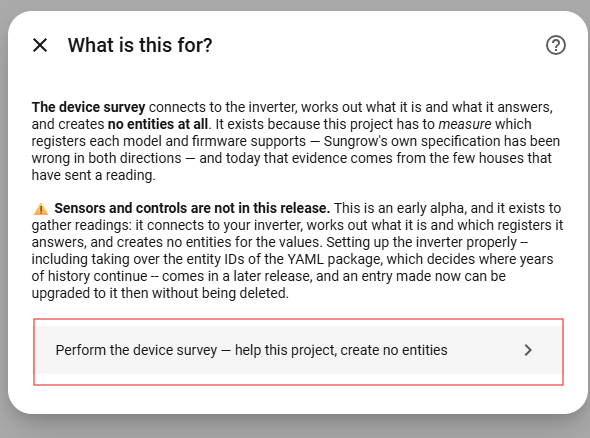
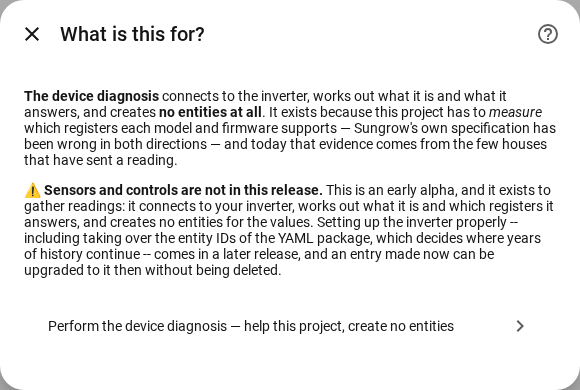
Screenshots: the diagnosis's new names, retaken against the simulator
The device page's two buttons, the options section and the setup menu,
from a scratch instance on :8125. screenshot.py gains the device-diagnosis
and setup-menu shots, and waits for the login to store its session
before navigating, which a navigation straight after it raced.

diff --git a/scripts/dev/screenshot.py b/scripts/dev/screenshot.py
@@ -41,12 +41,23 @@ def log_in(page: Page, url: str, username: str, password: str) -> None:
     page.wait_for_url(lambda now: "/auth/" not in now, timeout=30_000)
 
 
+def settle(page: Page) -> None:
+    """Let the login finish storing its session before navigating away.
+
+    The session is stored once the first page after the login has loaded; a
+    navigation before that lands back on the login form.
+    """
+    page.wait_for_load_state("networkidle")
+    page.wait_for_timeout(2_000)
+
+
 def open_options(page: Page, url: str) -> None:
     """Open the Sungrow entry's options dialog from its integration page.
 
     The entry's cog is an `ha-icon-button` with no label of its own; the
     `button` inside it carries "Configure", which is what the role finds.
     """
+    settle(page)
     page.goto(f"{url}/config/integrations/integration/sungrow_modbus")
     page.wait_for_load_state("networkidle")
     page.locator("ha-config-entry-row").get_by_role("button", name="Configure").click()
@@ -69,7 +80,69 @@ def options_capability_test(page: Page, url: str) -> Path:
     return target
 
 
+def device_diagnosis(page: Page, url: str) -> Path:
+    """Shoot the device page's card with the two diagnosis buttons."""
+    settle(page)
+    page.goto(f"{url}/config/devices/dashboard")
+    page.wait_for_load_state("networkidle")
+    page.get_by_text("SH10RT", exact=True).first.click()
+    page.wait_for_url(lambda now: "/config/devices/device/" in now, timeout=30_000)
+    page.wait_for_load_state("networkidle")
+    card = page.locator("ha-card").filter(has_text="Run read-only diagnosis").last
+    card.wait_for()
+    page.wait_for_timeout(1_000)
+    target = IMAGES / "HA-settings-device-start-diagnosis.png"
+    card.screenshot(path=str(target))
+    return target
+
+
+def setup_menu(page: Page, url: str) -> Path:
+    """Shoot the first screen of Add integration.
+
+    The dialog's host has no box of its own, so the shot is clipped to the
+    first ancestor of the menu item the size of a dialog's surface.
+    """
+    settle(page)
+    page.goto(f"{url}/config/integrations/dashboard")
+    page.wait_for_load_state("networkidle")
+    page.get_by_role("button", name="Add integration").click()
+    page.wait_for_timeout(2_000)
+    page.keyboard.type("Sungrow")
+    page.wait_for_timeout(2_000)
+    page.locator("dialog-add-integration").get_by_text("Sungrow Modbus").first.click()
+    item = page.get_by_text("Perform the device diagnosis").first
+    item.wait_for()
+    page.wait_for_timeout(1_000)
+    box = item.evaluate(
+        """item => {
+            let node = item;
+            while (node && node.nodeType !== 9) {
+                if (node.nodeType === 11) {
+                    node = node.host;
+                    continue;
+                }
+                const r = node.getBoundingClientRect();
+                const wide = r.width >= 500 && r.width <= 900;
+                if (wide && r.height >= 350 && r.height <= 800) {
+                    return {x: r.x, y: r.y, width: r.width, height: r.height};
+                }
+                // Slotted content climbs through its slot, into the shadow
+                // tree that draws the surface, not straight to its host.
+                node = node.assignedSlot || node.parentNode;
+            }
+            return null;
+        }"""
+    )
+    if box is None:
+        raise RuntimeError("the dialog's surface was not found")
+    target = IMAGES / "HA-settings-configure-integration.png"
+    page.screenshot(path=str(target), clip=box)
+    return target
+
+
 SHOTS: dict[str, Callable[[Page, str], Path]] = {
+    "setup-menu": setup_menu,
+    "device-diagnosis": device_diagnosis,
     "options-capability-test": options_capability_test,
 }
 
